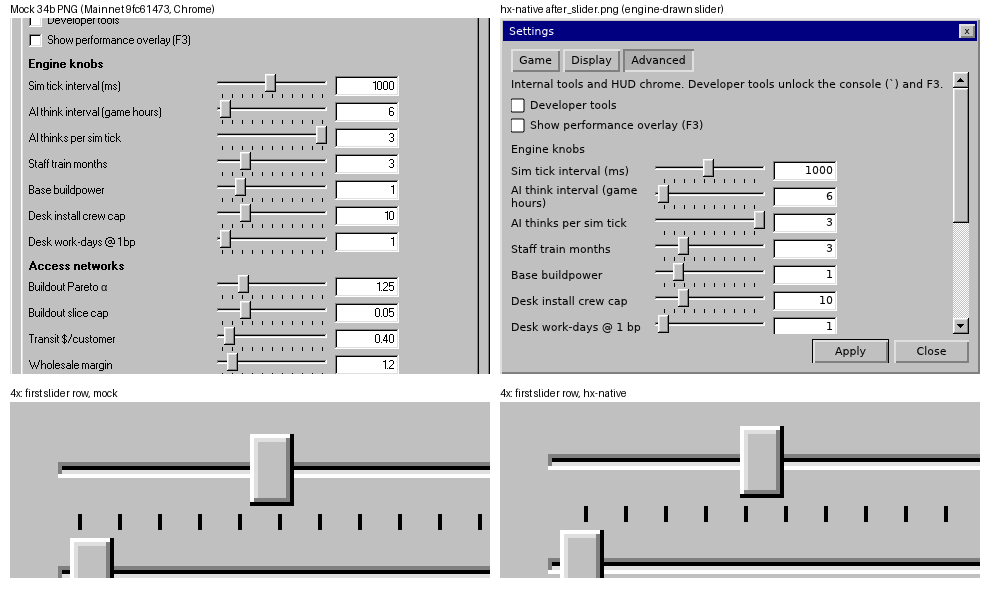
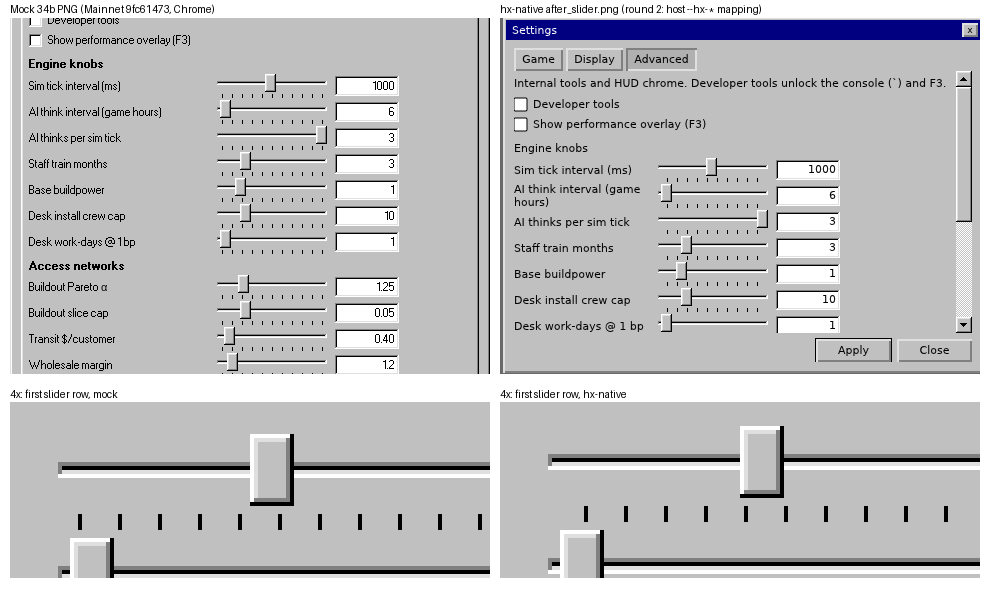
range slider round 2: re-rendered review images with the host --hx-* mapping, scrollbar width tracked in #47; see #35

Changed region(s): [[0.4848, 0.0, 1.0, 0.6321], [0.5152, 0.6321, 0.6364, 0.6622], [0.0303, 0.6321, 0.1212, 0.6622]]

diff --git a/docs/REQUIREMENTS.md b/docs/REQUIREMENTS.md
@@ -363,7 +363,7 @@ Driven by Mainnet mock 34 (Settings: a 480x356 window whose `.panel.scroll` is `
 
 1. **What scrolls.** Any element other than `<html>`/`<body>` whose computed `overflow-y` is `auto` or `scroll`. Vertical only; `overflow-x` offsets are never written. The page/viewport itself never scrolls (the host owns the window). Blitz `=0.3.0-beta.4` owns the offset (`Node::scroll_offset`); its paint clips to the padding box and its hit test, our damage geometry and `element_border_box_*` all account for it. hx-native picks which container moves, clamps, keeps offsets across swaps, and draws the bar. Blitz's `scrollbars` feature stays off.
 2. **Input.** `InputEvent::Wheel { pos, delta, unit }` (egui `MouseWheel` forwarded raw: `pos` in panel-local CSS px like `PointerMove`; positive `delta.1` scrolls up; `delta.0` ignored). `WheelUnit` has exactly three units, mapped 1:1 from egui `MouseWheelUnit` (UI, 2026-10-21): `Pixel` (egui `Point`) = CSS px, 1 CSS px per point; `Line` = 3 rows of 20 px = 60 px per line (winit reports one line per notch; the Windows feel Designer asked for); `Page` = the container's visible height − one 20 px row, the same step as PageDown and a track click. The **innermost** container under `pos` that can still move that way scrolls; a remainder never chains to a parent in the same event. Result `InputOutcome::Scrolled { id }` (container id, `None` if it has none), or `InputOutcome::None` when nothing could move (the host may then scroll its own UI). Both enums were already `#[non_exhaustive]`, so this is additive. A wheel closes an open `<select>` list.
-3. **Engine-drawn scrollbar (HTML_CONTRACT §4).** 16 px wide over the right edge of the padding box, full height: raised 16x16 arrow buttons on `--hx-face` with an `--hx-ink` triangle (pressed: sunken, glyph shifted 1 px), an `--hx-track` track (a 1 px checker with `--hx-track-alt` when that is set), and a raised thumb sized to the visible share (min 8 px). `overflow-y:auto` shows no bar when everything fits; `overflow-y:scroll` always shows one, with no thumb and grey embossed arrows when there is nothing to scroll. **Gutter (open decision 12b, resolved):** the engine reserves a 16 px gutter on the right so the bar never covers content (mocks add no `padding-right`). Blitz `=0.3.0-beta.4` layout hard-codes Taffy's `scrollbar_width` to 0, so instead, after a layout finds a container with an id that needs one (`overflow-y: scroll` always; `auto` once its content overflows), the engine adds a rule `[id="…"]{padding-right: calc(<author padding-right> + 16px) !important}` to an engine-owned stylesheet of **user-agent origin** held on a detached element (never in the tree: not serialized, not hit-tested, never in Action args) and lays out once more. Because it is UA-origin `!important`, it beats every author declaration, normal or `!important`, inline included (important origins reverse in the cascade); a UA rule that is *not* `!important` would lose to any author rule, so the `!important` is required. One extra style+layout pass on the frame where a container first needs it; a container that overflows only because another container's new gutter narrowed it is reserved in the **same frame** by repeating reserve-then-layout, capped at 3 extra passes per frame (gutters are only ever added, so it terminates; when the chain is longer than the cap, the surface stays dirty and each following `paint` continues it, with no input needed, until nothing is pending; #34 round 5) (#34 round 4). The author's computed `padding-right` (length, percentage, or the used px for a mixed `calc()`) is captured once, before the rule applies, and kept. The gutter is sticky per element id (kept across same-id swaps even if the new content fits, like browsers; no oscillation) and dropped when no element has that id any more, or on `load_html`. The bar paints exactly in the reserved strip (the outer 16 px of the padding box). Containers without an id get no gutter (ids are the contract's key for dynamic elements). Known limit: an author change of that container's `padding-right` while the gutter is held keeps the captured value. Arrow = one row (20 px), track = one page, thumb drags (offset follows the thumb top proportionally, clamped). A press that starts on a bar never produces a click, and its release returns `None`. No hold-to-repeat in v1 (decided, open decision 12d). Colours come from the `--hx-*` variables (see "Engine-drawn control variables"); the 16 px width is still a constant (a `--hx-scrollbar-w` variable would move the #34 gutter too; tracked separately).
+3. **Engine-drawn scrollbar (HTML_CONTRACT §4).** 16 px wide over the right edge of the padding box, full height: raised 16x16 arrow buttons on `--hx-face` with an `--hx-ink` triangle (pressed: sunken, glyph shifted 1 px), an `--hx-track` track (a 1 px checker with `--hx-track-alt` when that is set), and a raised thumb sized to the visible share (min 8 px). `overflow-y:auto` shows no bar when everything fits; `overflow-y:scroll` always shows one, with no thumb and grey embossed arrows when there is nothing to scroll. **Gutter (open decision 12b, resolved):** the engine reserves a 16 px gutter on the right so the bar never covers content (mocks add no `padding-right`). Blitz `=0.3.0-beta.4` layout hard-codes Taffy's `scrollbar_width` to 0, so instead, after a layout finds a container with an id that needs one (`overflow-y: scroll` always; `auto` once its content overflows), the engine adds a rule `[id="…"]{padding-right: calc(<author padding-right> + 16px) !important}` to an engine-owned stylesheet of **user-agent origin** held on a detached element (never in the tree: not serialized, not hit-tested, never in Action args) and lays out once more. Because it is UA-origin `!important`, it beats every author declaration, normal or `!important`, inline included (important origins reverse in the cascade); a UA rule that is *not* `!important` would lose to any author rule, so the `!important` is required. One extra style+layout pass on the frame where a container first needs it; a container that overflows only because another container's new gutter narrowed it is reserved in the **same frame** by repeating reserve-then-layout, capped at 3 extra passes per frame (gutters are only ever added, so it terminates; when the chain is longer than the cap, the surface stays dirty and each following `paint` continues it, with no input needed, until nothing is pending; #34 round 5) (#34 round 4). The author's computed `padding-right` (length, percentage, or the used px for a mixed `calc()`) is captured once, before the rule applies, and kept. The gutter is sticky per element id (kept across same-id swaps even if the new content fits, like browsers; no oscillation) and dropped when no element has that id any more, or on `load_html`. The bar paints exactly in the reserved strip (the outer 16 px of the padding box). Containers without an id get no gutter (ids are the contract's key for dynamic elements). Known limit: an author change of that container's `padding-right` while the gutter is held keeps the captured value. Arrow = one row (20 px), track = one page, thumb drags (offset follows the thumb top proportionally, clamped). A press that starts on a bar never produces a click, and its release returns `None`. No hold-to-repeat in v1 (decided, open decision 12d). Colours come from the `--hx-*` variables (see "Engine-drawn control variables"); the 16 px width is still a constant (a `--hx-scrollbar-w` variable would move the #34 gutter too; issue #47).
 4. **Keys.** `PageUp`/`PageDown` (± one page) and `Home`/`End` (top / bottom) scroll the innermost container around the **focused** element that can move that way — the focused element itself first when it is a scroll container (a `tabindex` panel, #34 round 4) — after text-field editing keys (a focused text field keeps Home/End for its caret). Without focus inside a container they stay `Unhandled`. Tab/Shift+Tab focus scrolls the newly focused element into view in every container around it ("nearest": the least movement; a box taller than the container aligns its top).
 5. **Hit testing.** Content scrolled outside a container's padding box never takes hover-id, press or click. Blitz's own hit test does not clip to overflow and can return such content; the engine then re-hits in document order (a paint-order approximation; `z-index` is not consulted on this fallback path only), skipping clipped elements, `pointer-events:none` and `visibility:hidden`, so an element *before* the list (a column header above it) still takes its hover and click (#34 round 4). A press on a bar counts only when the topmost *visible* element at that point (the same clipped-aware hit as above; a scroll container Blitz returns for a point outside its own border box, in its scrolled-away content area, counts as clipped) is the container or inside it, so a dialog or tooltip drawn over a bar takes its own click.
    **Interim contract (issue #36):** the bar is still *painted* as a final overlay, above anything Blitz drew, so on one surface an overlay (dialog, tooltip, popup) must not cover a scroll container's 16 px bar strip — put it on another surface or keep it clear of the strip. Painting the bar at its own stacking position needs a per-node paint hook Blitz beta.4 does not have (see #36).
